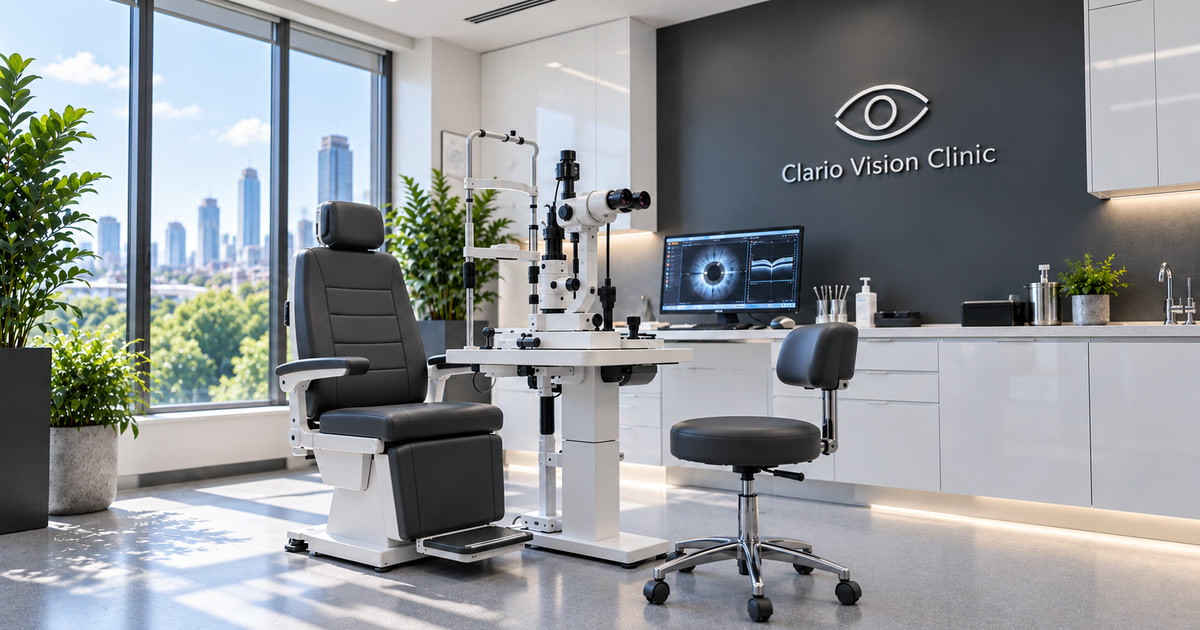
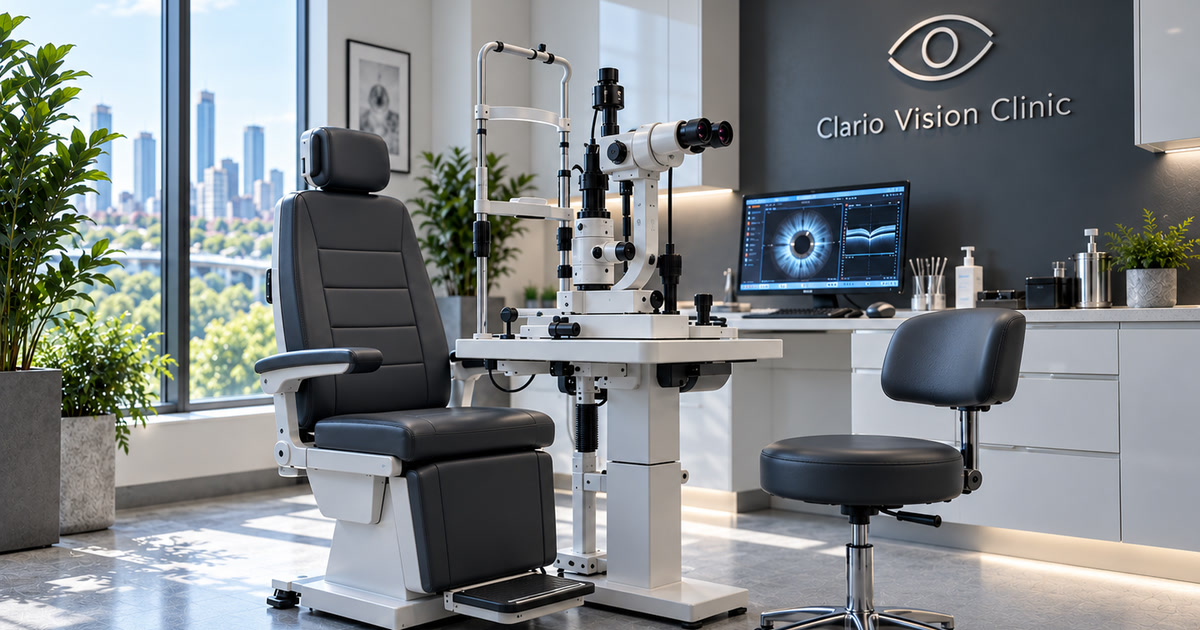
Place new clinic photography across the site
About: consultation; Services: slit lamp exam; Technology: OCT monitor and
eye close-up; Doctors: portraits for Kravchenko and Melnyk (light monogram
placeholders for the rest); Contacts and OG image: new examination room.

Claude-Session: https://claude.ai/code/session_01Xo7fRvH5gQ679297hFb1Q8

diff --git a/clario/src/content/dictionaries.ts b/clario/src/content/dictionaries.ts
@@ -48,12 +48,13 @@ const uk = {
     title: "Комплексна турбота про зір — в одному місці",
     text: "Clario Vision Clinic — сучасна офтальмологічна клініка, де точна діагностика, сучасні технології та уважний підхід до пацієнта працюють разом. Тут можна пройти консультацію, обстеження, підібрати корекцію зору та отримати рекомендації для дітей і дорослих.",
     points: ["Сучасне обладнання", "Досвідчені лікарі", "Для дітей і дорослих", "Комфортний сервіс"],
-    imageAlt: "Світлий кабінет Clario Vision Clinic з офтальмологічним кріслом, щілинною лампою та панорамними вікнами.",
+    imageAlt: "Лікар Clario Vision Clinic пояснює пацієнтці результати діагностики на моніторі.",
   },
   services: {
     eyebrow: "Послуги",
     title: "Послуги",
     book: "Записатися",
+    imageAlt: "Офтальмолог оглядає пацієнтку за щілинною лампою.",
     items: [
       { id: "consultation", title: "Первинна консультація офтальмолога" },
       { id: "diagnostics", title: "Комплексна діагностика зору" },
@@ -76,8 +77,8 @@ const uk = {
   technology: {
     eyebrow: "Технології",
     title: "Технології",
-    imageAlt: "Щілинна лампа в оглядовому кабінеті Clario Vision Clinic.",
-    macroAlt: "Огляд ока пацієнта крупним планом.",
+    imageAlt: "Монітор із результатами ОКТ-діагностики та знімком сітківки в кабінеті Clario Vision Clinic.",
+    macroAlt: "Око пацієнта крупним планом під час огляду на щілинній лампі.",
     items: [
       { title: "ОКТ-діагностика", text: "Пошарове зображення сітківки та зорового нерва — без контакту з оком, за кілька хвилин." },
       { title: "Цифрова діагностика сітківки", text: "Знімки очного дна у високій якості, щоб помітити зміни на ранній стадії та порівнювати їх із часом." },
@@ -161,7 +162,7 @@ const uk = {
     hours: "Пн–Сб: 09:00–19:00",
     labels: { address: "Адреса", phone: "Телефон", email: "Email", hours: "Графік" },
     map: "Відкрити на мапі",
-    imageAlt: "Інтер’єр Clario Vision Clinic.",
+    imageAlt: "Оглядовий кабінет Clario Vision Clinic з панорамними вікнами.",
   },
   footer: { rights: "Усі права захищено." },
   notFound: {
@@ -208,12 +209,13 @@ const en: Dictionary = {
     title: "Comprehensive eye care — all in one place",
     text: "Clario Vision Clinic is a modern ophthalmology clinic where precise diagnostics, modern technology and an attentive approach to each patient work together. Here you can have a consultation and an examination, choose vision correction and get recommendations for children and adults.",
     points: ["Modern equipment", "Experienced doctors", "For children and adults", "Comfortable service"],
-    imageAlt: "A bright Clario Vision Clinic examination room with an ophthalmic chair, slit lamp and panoramic windows.",
+    imageAlt: "A Clario Vision Clinic doctor explaining diagnostic results to a patient on a monitor.",
   },
   services: {
     eyebrow: "Services",
     title: "Services",
     book: "Book",
+    imageAlt: "An ophthalmologist examining a patient at a slit lamp.",
     items: [
       { id: "consultation", title: "Initial ophthalmologist consultation" },
       { id: "diagnostics", title: "Comprehensive eye examination" },
@@ -236,8 +238,8 @@ const en: Dictionary = {
   technology: {
     eyebrow: "Technology",
     title: "Technology",
-    imageAlt: "A slit lamp in a Clario Vision Clinic examination room.",
-    macroAlt: "Close-up of a patient's eye during an examination.",
+    imageAlt: "A monitor showing OCT results and a retinal image at Clario Vision Clinic.",
+    macroAlt: "Close-up of a patient's eye during a slit lamp examination.",
     items: [
       { title: "OCT diagnostics", text: "Layer-by-layer images of the retina and optic nerve — no contact with the eye, in just a few minutes." },
       { title: "Digital retinal imaging", text: "High-quality images of the back of the eye to spot changes early and compare them over time." },
@@ -320,7 +322,7 @@ const en: Dictionary = {
     hours: "Mon–Sat: 09:00–19:00",
     labels: { address: "Address", phone: "Phone", email: "Email", hours: "Hours" },
     map: "Open in maps",
-    imageAlt: "Clario Vision Clinic interior.",
+    imageAlt: "A Clario Vision Clinic examination room with panoramic windows.",
   },
   footer: { rights: "All rights reserved." },
   notFound: {

diff --git a/clario/src/components/sections/Doctors.tsx b/clario/src/components/sections/Doctors.tsx
@@ -1,4 +1,5 @@
 import Image from "next/image";
+import blurredClinic from "@/assets/01_blurred_clinic.png";
 import type { Dictionary } from "@/content/dictionaries";
 import { doctorPhotos } from "@/content/doctor-photos";
 import { EyeMark } from "@/components/Icon";
@@ -10,22 +11,16 @@ const initials = (name: string) =>
     .map((p) => p[0])
     .join("");
 
-/** Placeholder portrait in the clinic palette, used until real photos are provided. */
-function Monogram({ name, index }: { name: string; index: number }) {
-  const tints = [
-    "from-graphite-700 via-graphite-800 to-graphite-950",
-    "from-[#3a4148] via-graphite-800 to-graphite-950",
-    "from-graphite-600 via-graphite-700 to-graphite-900",
-    "from-[#34404a] via-graphite-800 to-graphite-950",
-  ];
+/** Placeholder portrait on the blurred clinic backdrop, used until a real photo is provided. */
+function Monogram({ name }: { name: string }) {
   return (
-    <div className={`absolute inset-0 bg-gradient-to-b ${tints[index % tints.length]}`}>
-      <div className="absolute -top-16 -right-10 size-64 rounded-full bg-ice-300/25 blur-3xl" />
-      <div className="absolute -bottom-20 -left-10 size-56 rounded-full bg-leaf-500/15 blur-3xl" />
+    <div className="absolute inset-0">
+      <Image src={blurredClinic} alt="" fill sizes="(min-width: 1024px) 25vw, (min-width: 640px) 50vw, 100vw" placeholder="blur" quality={92} className="scale-110 object-cover object-[30%_50%]" />
+      <div className="absolute inset-0 bg-gradient-to-b from-white/55 via-white/35 to-ice-100/60 backdrop-blur-[2px]" />
       <div className="absolute inset-0 grid place-items-center">
-        <span className="text-[5.5rem] font-extralight tracking-[-0.04em] text-white/85">{initials(name)}</span>
+        <span className="text-[5.5rem] font-extralight tracking-[-0.04em] text-graphite-800/80">{initials(name)}</span>
       </div>
-      <EyeMark className="absolute top-6 left-6 w-9 text-white/35" />
+      <EyeMark className="absolute top-6 left-6 w-9 text-graphite-800/35" />
     </div>
   );
 }
@@ -45,12 +40,12 @@ export function Doctors({ t }: { t: Dictionary["doctors"] }) {
             return (
               <Reveal as="li" key={d.name} delay={i * 0.08}>
                 <article className="group">
-                  <div className="relative aspect-[4/5] overflow-hidden rounded-[1.75rem] bg-graphite-800 shadow-[var(--shadow-soft)] transition-shadow duration-700 group-hover:shadow-[var(--shadow-lift)]" data-cursor="media">
+                  <div className="relative aspect-[4/5] overflow-hidden rounded-[1.75rem] bg-cold-100 shadow-[var(--shadow-soft)] transition-shadow duration-700 group-hover:shadow-[var(--shadow-lift)]" data-cursor="media">
                     <div className="absolute inset-0 transition-transform duration-[1400ms] ease-[var(--ease-out-expo)] group-hover:scale-[1.035]">
                       {photo ? (
-                        <Image src={photo} alt={`${d.name} — ${d.role}`} fill sizes="(min-width: 1024px) 25vw, (min-width: 640px) 50vw, 100vw" placeholder="blur" quality={92} className="object-cover" />
+                        <Image src={photo} alt={`${d.name} — ${d.role}`} fill sizes="(min-width: 1024px) 25vw, (min-width: 640px) 50vw, 100vw" placeholder="blur" quality={92} className="object-cover object-top" />
                       ) : (
-                        <Monogram name={d.name} index={i} />
+                        <Monogram name={d.name} />
                       )}
                     </div>
                     <div className="absolute inset-x-0 bottom-0 h-1/3 bg-gradient-to-t from-graphite-950/45 to-transparent" aria-hidden="true" />

diff --git a/clario/src/components/sections/Technology.tsx b/clario/src/components/sections/Technology.tsx
@@ -1,5 +1,5 @@
-import slitLamp from "@/assets/02_slit_lamp_closeup.png";
-import eyeMacro from "@/assets/03_eye_exam_macro.png";
+import eyeMacro from "@/assets/eye-exam-macro.png";
+import oct from "@/assets/oct-diagnostics.png";
 import type { Dictionary } from "@/content/dictionaries";
 import { ParallaxImage } from "@/components/ParallaxImage";
 import { Reveal } from "@/components/motion";
@@ -15,13 +15,13 @@ export function Technology({ t }: { t: Dictionary["technology"] }) {
         </Reveal>
 
         <Reveal delay={0.1} className="mt-14 lg:mt-20">
-          <ParallaxImage src={eyeMacro} alt={t.macroAlt} sizes="(min-width: 1320px) 1240px, 100vw" className="aspect-[4/3] rounded-[1.75rem] sm:aspect-[16/9] lg:aspect-[21/9]" imageClassName="object-[55%_45%]" strength={5} />
+          <ParallaxImage src={oct} alt={t.imageAlt} sizes="(min-width: 1320px) 1240px, 100vw" className="aspect-[4/3] rounded-[1.75rem] sm:aspect-[16/9]" imageClassName="object-[60%_50%]" />
         </Reveal>
 
         <div className="mt-16 grid gap-12 lg:mt-24 lg:grid-cols-12 lg:gap-16">
           <div className="lg:col-span-5">
             <Reveal className="lg:sticky lg:top-28">
-              <ParallaxImage src={slitLamp} alt={t.imageAlt} sizes="(min-width: 1024px) 40vw, 100vw" className="aspect-[4/5] rounded-[1.75rem] sm:aspect-[4/3] lg:aspect-[4/5]" imageClassName="object-[45%_40%]" />
+              <ParallaxImage src={eyeMacro} alt={t.macroAlt} sizes="(min-width: 1024px) 40vw, 100vw" className="aspect-[4/5] rounded-[1.75rem] sm:aspect-[4/3] lg:aspect-[4/5]" imageClassName="object-[60%_50%]" />
             </Reveal>
           </div>
           <ol className="lg:col-span-7">

diff --git a/clario/src/components/sections/Services.tsx b/clario/src/components/sections/Services.tsx
@@ -1,4 +1,6 @@
+import slitLampExam from "@/assets/slit-lamp-exam.png";
 import type { Dictionary } from "@/content/dictionaries";
+import { ParallaxImage } from "@/components/ParallaxImage";
 import { BookButton } from "@/components/booking/BookingProvider";
 import { ArrowIcon, ServiceIcon } from "@/components/Icon";
 import { Reveal } from "@/components/motion";
@@ -13,7 +15,11 @@ export function Services({ t }: { t: Dictionary["services"] }) {
           <h2 id="services-title" className="h-section mt-6">{t.title}</h2>
         </Reveal>
 
-        <ul className="mt-14 grid gap-4 sm:grid-cols-2 lg:mt-20 lg:grid-cols-3 lg:gap-5">
+        <Reveal delay={0.1} className="mt-14 lg:mt-20">
+          <ParallaxImage src={slitLampExam} alt={t.imageAlt} sizes="(min-width: 1320px) 1240px, 100vw" className="aspect-[4/3] rounded-[2rem] shadow-[var(--shadow-soft)] sm:aspect-[16/9] lg:aspect-[21/9]" imageClassName="object-[50%_32%]" />
+        </Reveal>
+
+        <ul className="mt-5 grid gap-4 sm:grid-cols-2 lg:mt-5 lg:grid-cols-3 lg:gap-5">
           {t.items.map((s, i) => (
             <Reveal as="li" key={s.id} delay={(i % 3) * 0.08}>
               <article className="group relative flex h-full min-h-[17rem] flex-col overflow-hidden rounded-[1.75rem] border border-white bg-white/75 p-7 shadow-[0_1px_2px_rgb(21_24_26/0.03)] backdrop-blur-xl transition-[transform,box-shadow,border-color] duration-700 ease-[var(--ease-out-expo)] hover:-translate-y-1.5 hover:border-ice-200 hover:shadow-[var(--shadow-lift)] sm:p-8">

diff --git a/clario/src/components/sections/About.tsx b/clario/src/components/sections/About.tsx
@@ -1,4 +1,4 @@
-import clinic from "@/assets/04_clear_clinic.png";
+import consultation from "@/assets/consultation.png";
 import type { Dictionary } from "@/content/dictionaries";
 import { ParallaxImage } from "@/components/ParallaxImage";
 import { Reveal } from "@/components/motion";
@@ -40,7 +40,7 @@ export function About({ t }: { t: Dictionary["about"] }) {
 
         <Reveal delay={0.1} className="lg:col-span-6">
           <div className="relative">
-            <ParallaxImage src={clinic} alt={t.imageAlt} sizes="(min-width: 1024px) 50vw, 100vw" className="aspect-[4/5] rounded-[2rem] shadow-[var(--shadow-lift)] sm:aspect-[5/4] lg:aspect-[4/5]" imageClassName="object-[18%_50%]" />
+            <ParallaxImage src={consultation} alt={t.imageAlt} sizes="(min-width: 1024px) 50vw, 100vw" className="aspect-[4/5] rounded-[2rem] shadow-[var(--shadow-lift)] sm:aspect-[4/3] lg:aspect-[4/5]" imageClassName="object-[42%_50%]" />
             <div className="glass absolute bottom-5 left-5 flex items-center gap-3 rounded-full py-2.5 pr-5 pl-3 text-[0.82rem] font-medium shadow-[var(--shadow-soft)]" aria-hidden="true">
               <span className="relative grid size-6 place-items-center">
                 <span className="absolute size-6 animate-ping rounded-full bg-leaf-500/25 [animation-duration:2.8s]" />

diff --git a/clario/src/components/sections/Contacts.tsx b/clario/src/components/sections/Contacts.tsx
@@ -1,4 +1,4 @@
-import clinic from "@/assets/04_clear_clinic.png";
+import clinic from "@/assets/clinic-room.png";
 import type { Dictionary } from "@/content/dictionaries";
 import { ParallaxImage } from "@/components/ParallaxImage";
 import { Reveal } from "@/components/motion";
@@ -21,7 +21,7 @@ export function Contacts({ t }: { t: Dictionary["contacts"] }) {
         </Reveal>
         <div className="relative mt-14 lg:mt-20">
           <Reveal>
-            <ParallaxImage src={clinic} alt={t.imageAlt} sizes="(min-width: 1320px) 1240px, 100vw" className="aspect-[4/3] rounded-[2rem] sm:aspect-[16/9] lg:aspect-[21/10]" imageClassName="object-[60%_50%]" />
+            <ParallaxImage src={clinic} alt={t.imageAlt} sizes="(min-width: 1320px) 1240px, 100vw" className="aspect-[4/3] rounded-[2rem] sm:aspect-[16/9] lg:aspect-[21/10]" imageClassName="object-[55%_55%]" />
           </Reveal>
           <Reveal delay={0.15} className="relative -mt-24 px-3 sm:-mt-32 sm:px-6 lg:absolute lg:top-1/2 lg:left-10 lg:mt-0 lg:w-[27rem] lg:-translate-y-1/2 lg:px-0">
             <address className="rounded-[1.75rem] border border-white/80 bg-white/90 p-7 backdrop-blur-2xl not-italic shadow-[var(--shadow-lift)] sm:p-9">

diff --git a/clario/src/content/doctor-photos.ts b/clario/src/content/doctor-photos.ts
@@ -1,10 +1,16 @@
 import type { StaticImageData } from "next/image";
+import kravchenko from "@/assets/doctors/kravchenko.png";
+import melnyk from "@/assets/doctors/melnyk.png";
 
 /**
  * Doctor portraits, in the same order as `doctors.items` in dictionaries.ts.
- * Until real photos are supplied the site renders a styled monogram portrait.
- * To add one: put the file in src/assets/doctors/ and import it here, e.g.
- *   import kravchenko from "@/assets/doctors/kravchenko.jpg";
- * Recommended: 4:5 portrait, at least 1200×1500, neutral cold-gray or clinic background.
+ * `null` renders a styled monogram until a photo is supplied.
+ * To add one: put the file in src/assets/doctors/ and import it here.
+ * Recommended: 4:5 portrait, at least 1120×1400, same clinic background as the others.
  */
-export const doctorPhotos: (StaticImageData | null)[] = [null, null, null, null];
+export const doctorPhotos: (StaticImageData | null)[] = [
+  kravchenko, // Олена Кравченко
+  melnyk, // Андрій Мельник
+  null, // Ірина Соколова
+  null, // Максим Гнатюк
+];
